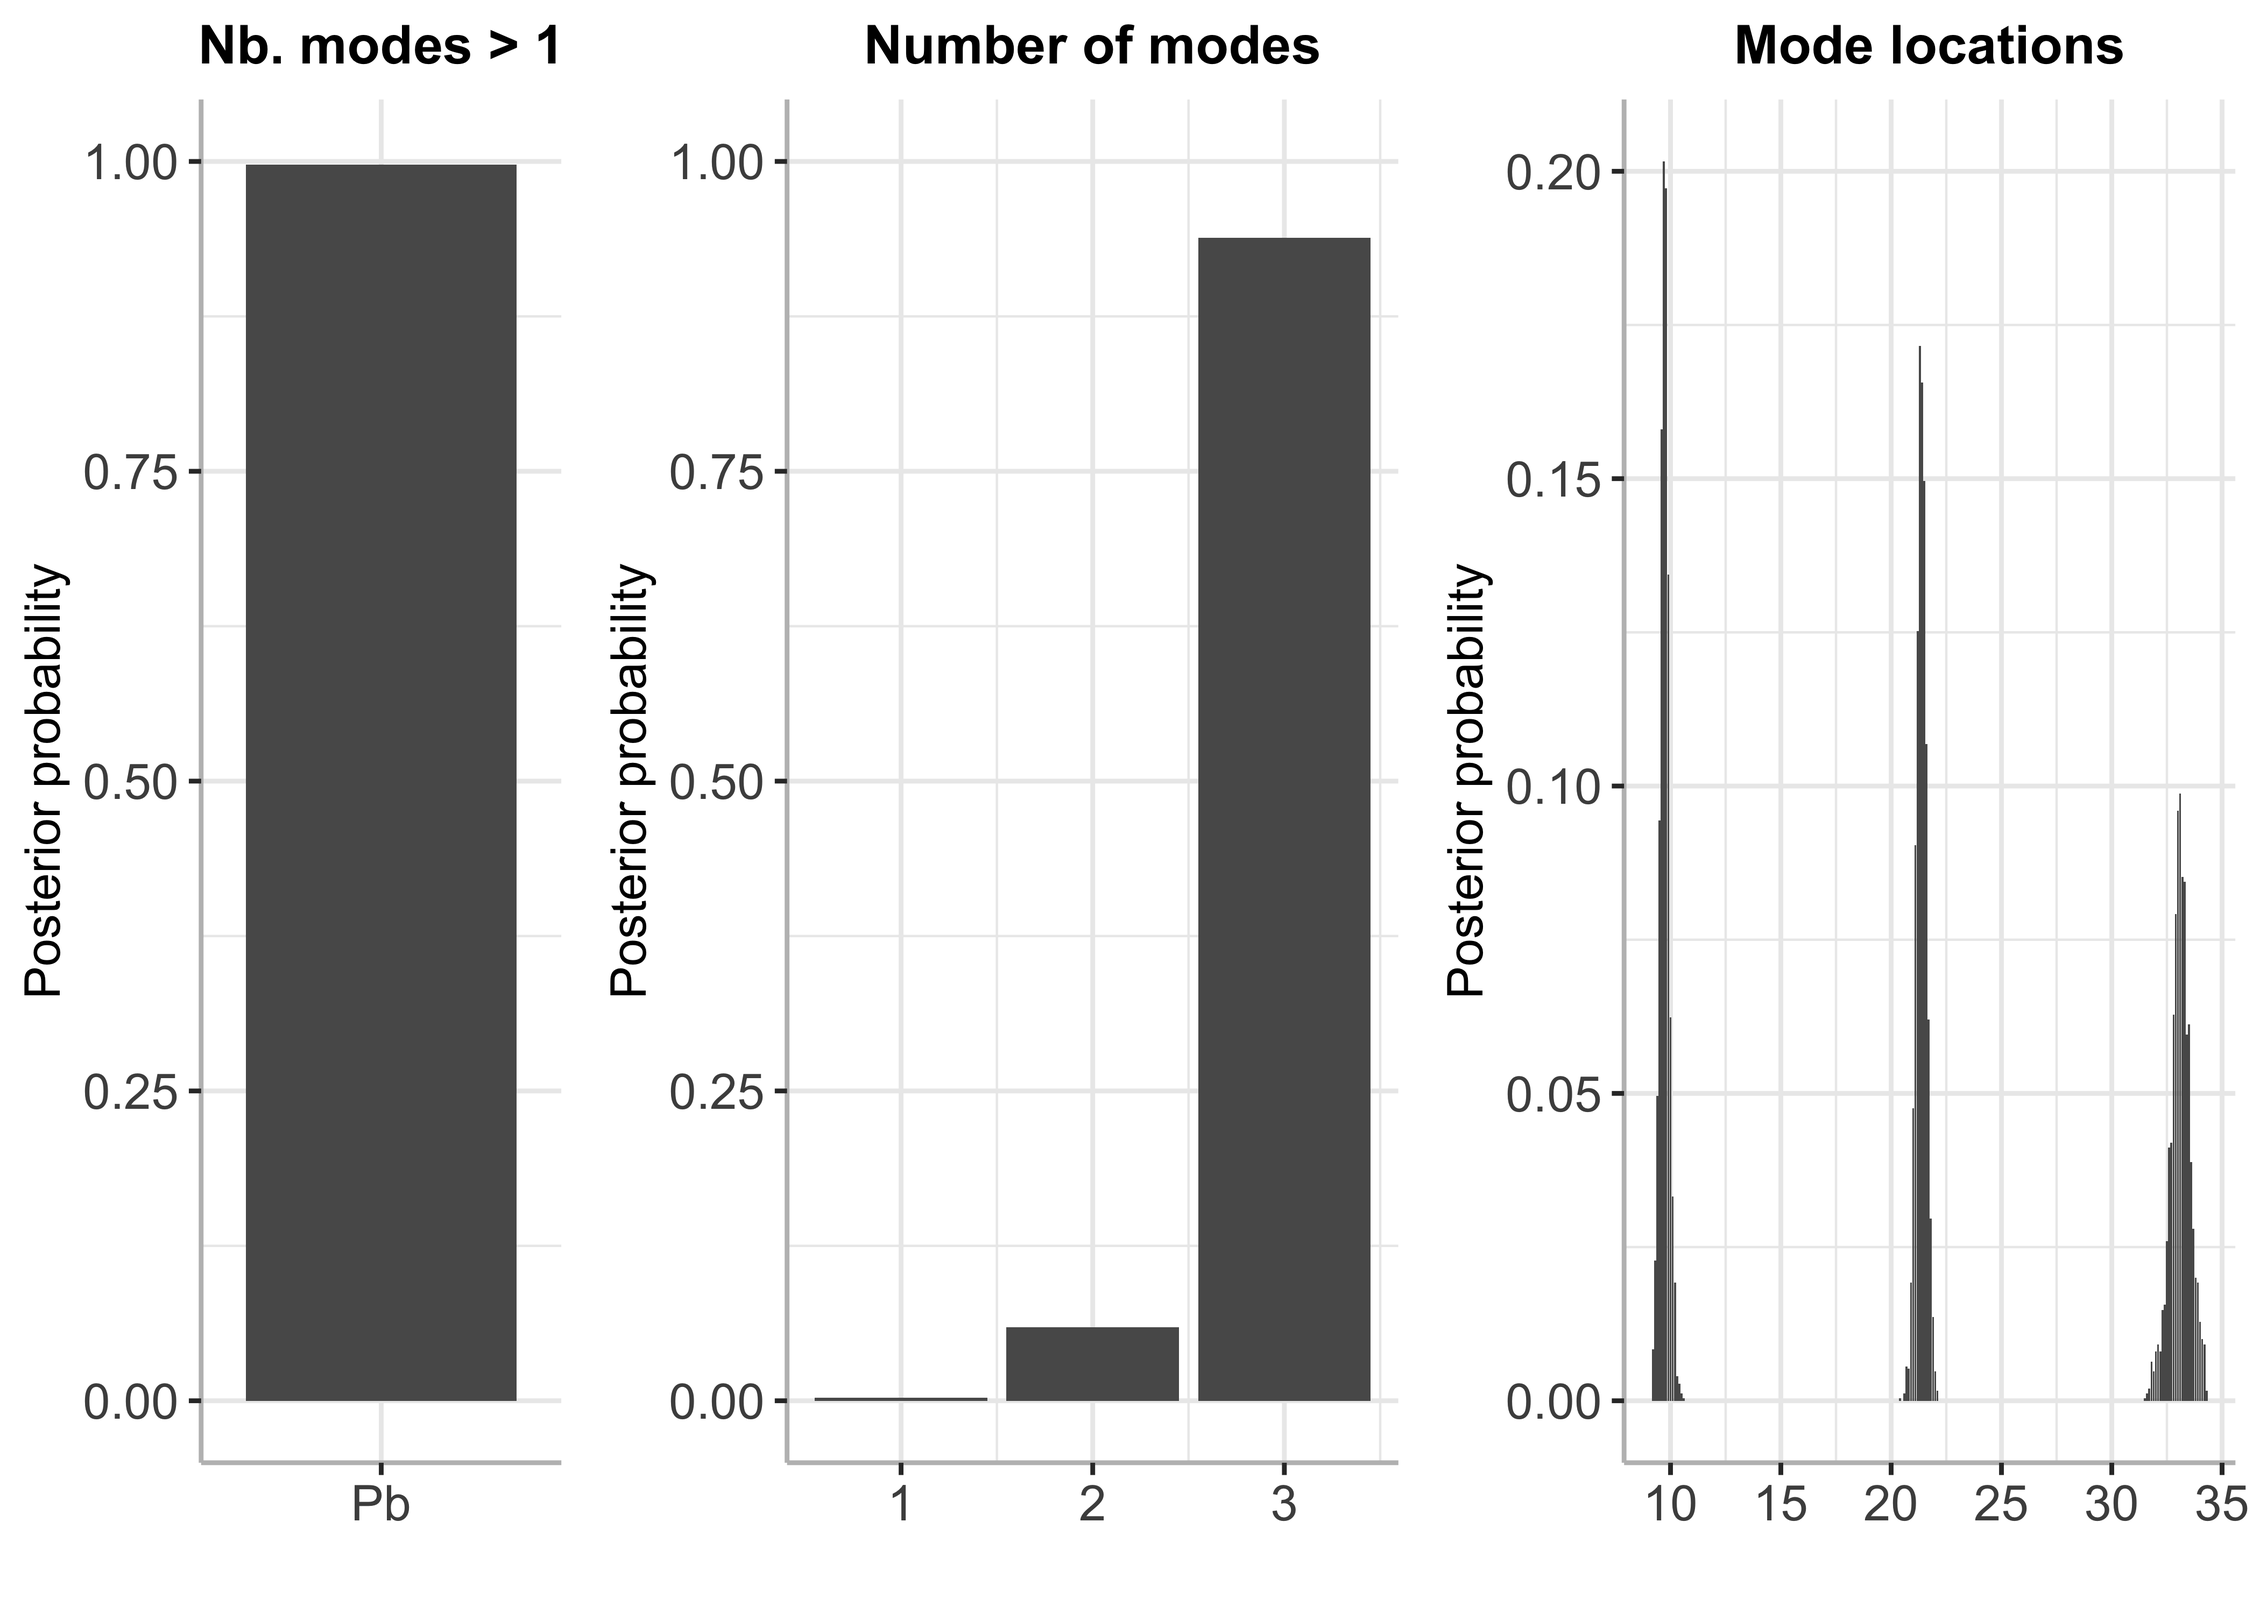
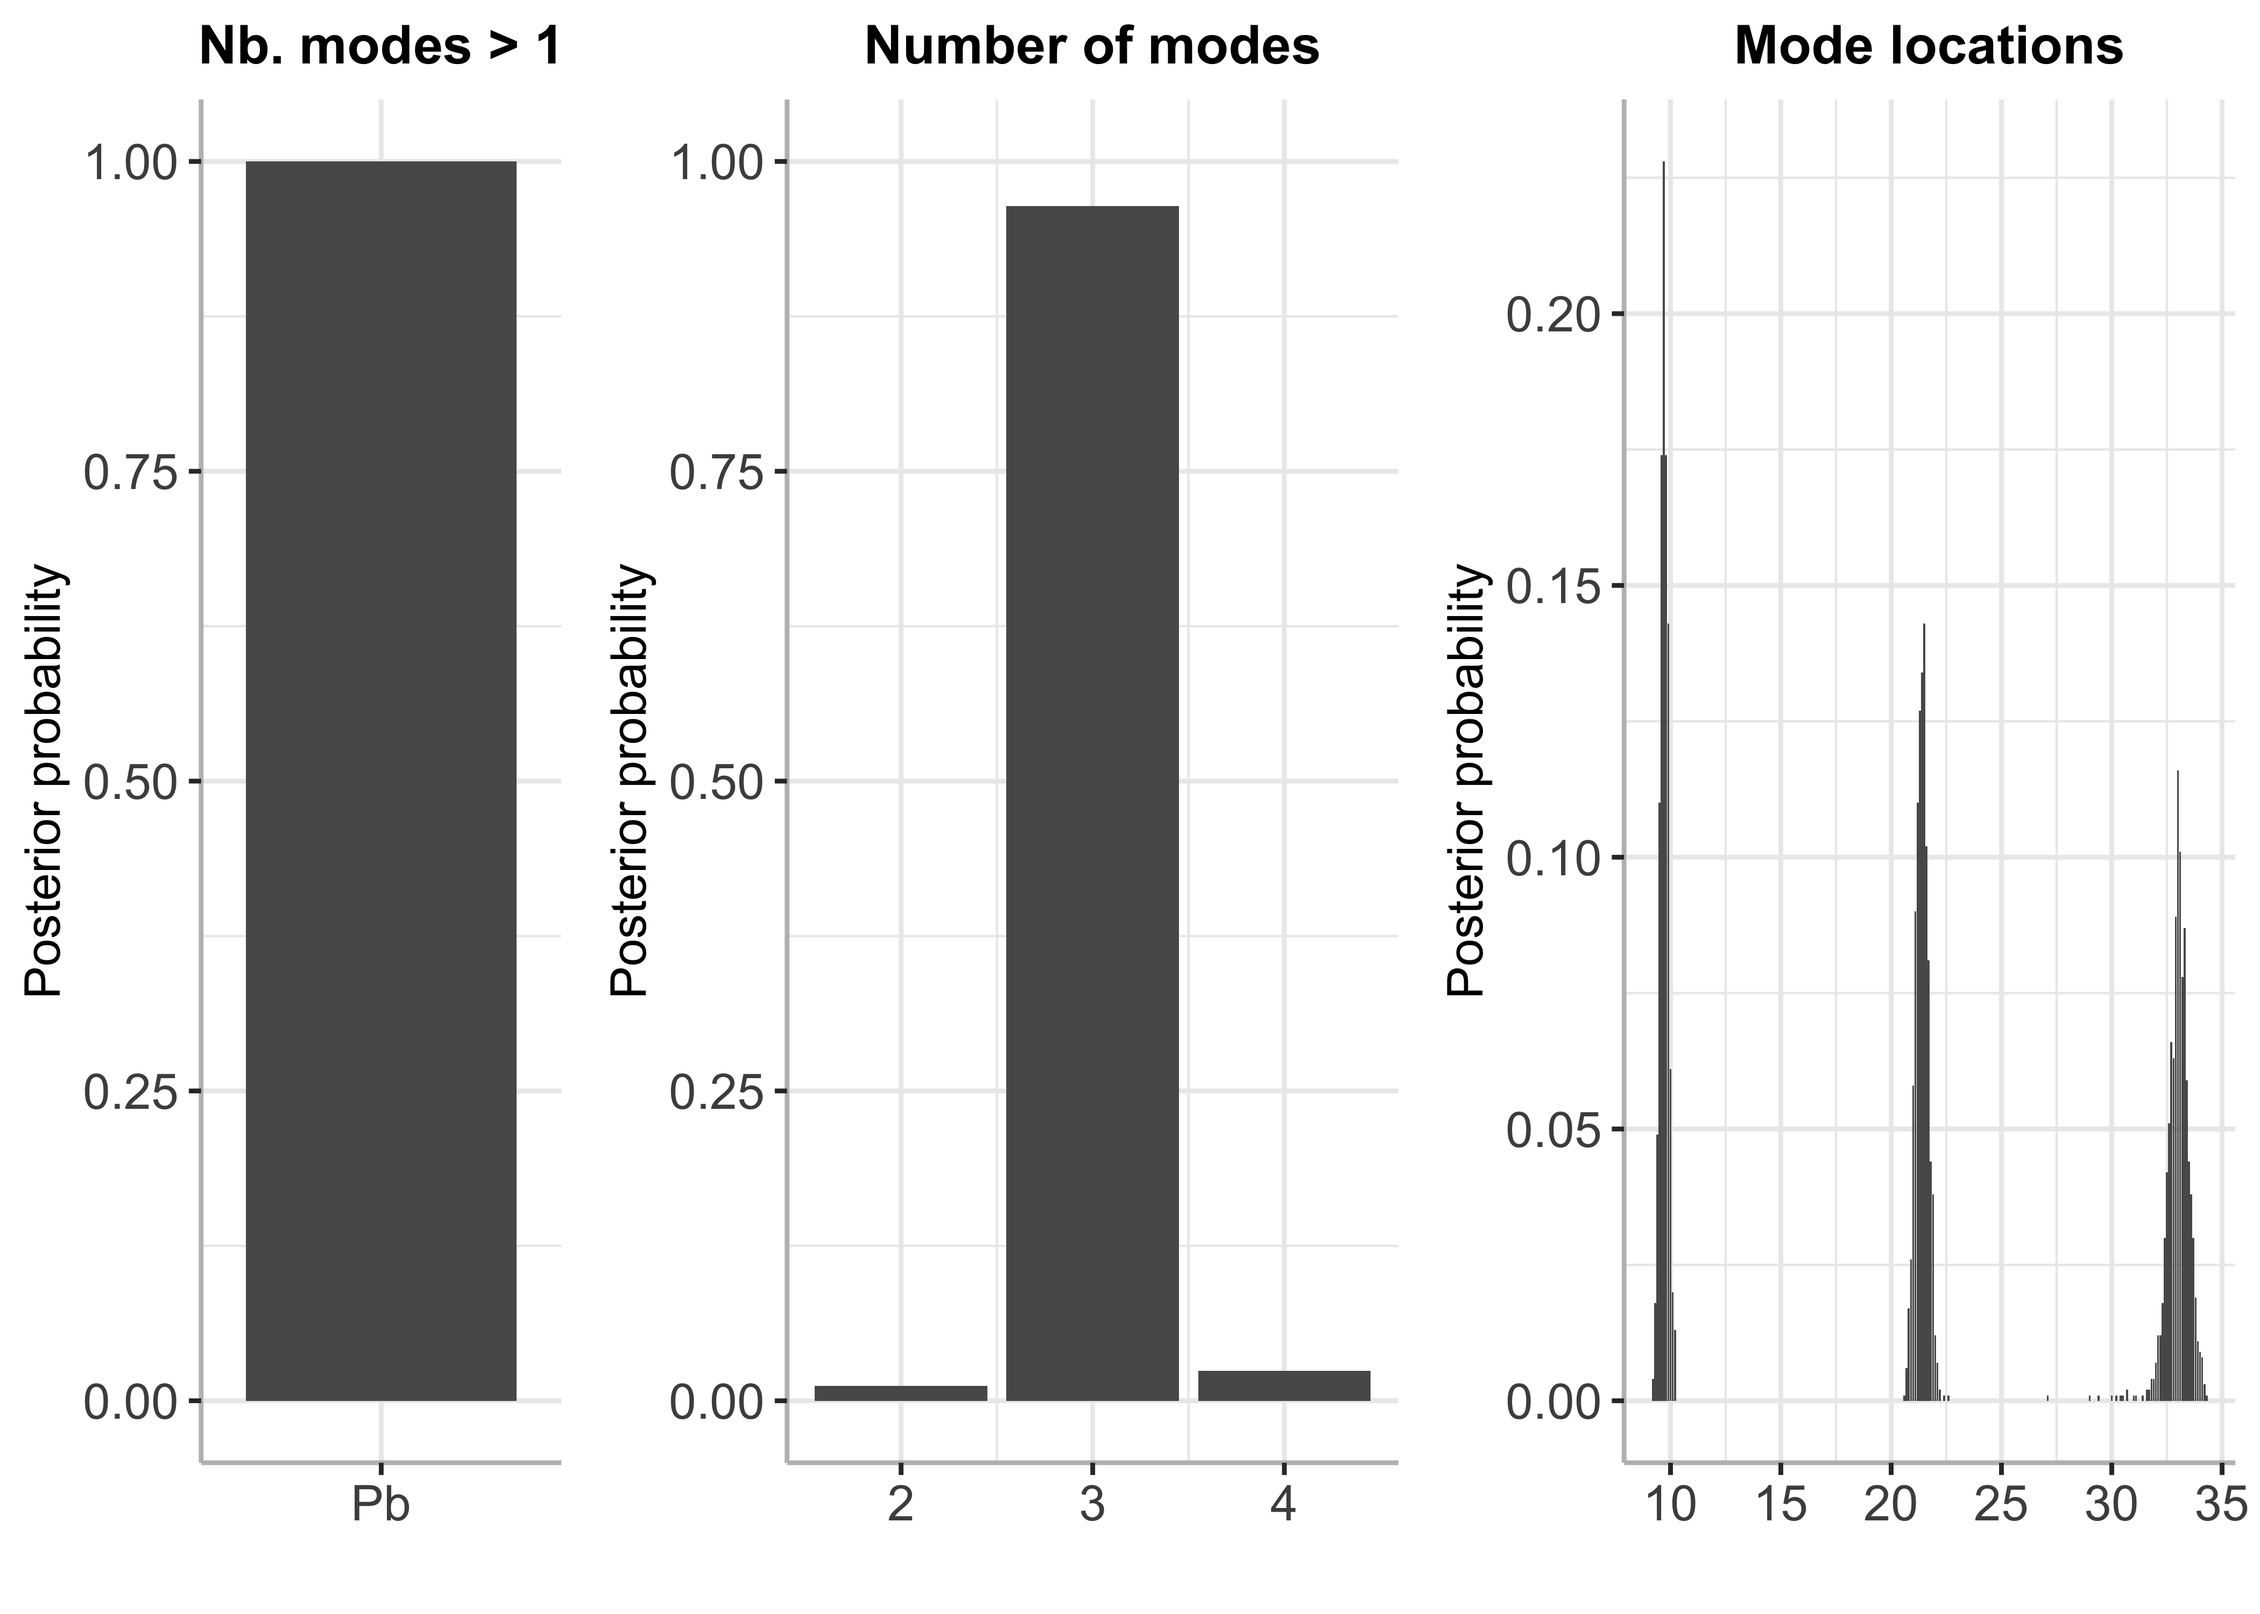
updated readme

diff --git a/README.md b/README.md
@@ -52,16 +52,16 @@ bayesmix = bayes_estimation(data = y,
                             burnin = 1000)
 ```
 
-    ## 10  % draws finished. Accept. prob of e0 = 12 percent
-    ## 20  % draws finished. Accept. prob of e0 = 10 percent
-    ## 30  % draws finished. Accept. prob of e0 = 12 percent
-    ## 40  % draws finished. Accept. prob of e0 = 12 percent
-    ## 50  % draws finished. Accept. prob of e0 = 10 percent
-    ## 60  % draws finished. Accept. prob of e0 = 10 percent
-    ## 70  % draws finished. Accept. prob of e0 = 10 percent
-    ## 80  % draws finished. Accept. prob of e0 = 10 percent
-    ## 90  % draws finished. Accept. prob of e0 = 10 percent
-    ## 100  % draws finished. Accept. prob of e0 = 10 percent
+    ## 10  % draws finished. Accept. prob of e0 = 14 percent
+    ## 20  % draws finished. Accept. prob of e0 = 15 percent
+    ## 30  % draws finished. Accept. prob of e0 = 14 percent
+    ## 40  % draws finished. Accept. prob of e0 = 13 percent
+    ## 50  % draws finished. Accept. prob of e0 = 13 percent
+    ## 60  % draws finished. Accept. prob of e0 = 13 percent
+    ## 70  % draws finished. Accept. prob of e0 = 13 percent
+    ## 80  % draws finished. Accept. prob of e0 = 12 percent
+    ## 90  % draws finished. Accept. prob of e0 = 12 percent
+    ## 100  % draws finished. Accept. prob of e0 = 12 percent
 
 ``` r
 # plot estimated mixture
@@ -98,44 +98,35 @@ y = galaxy
 bayesmix = bayes_estimation(data = y,
                             K = 4,
                             dist = "normal",
-                            nb_iter = 5000,
-                            burnin = 2500,
-                            chains = 1)
+                            nb_iter = 2000,
+                            burnin = 1000,
+                            chains = 1,
+                            G0 = 0)
 ```
 
     ## 
     ## SAMPLING FOR MODEL 'normal_mixture' NOW (CHAIN 1).
     ## Chain 1: 
-    ## Chain 1: Gradient evaluation took 4.2e-05 seconds
-    ## Chain 1: 1000 transitions using 10 leapfrog steps per transition would take 0.42 seconds.
+    ## Chain 1: Gradient evaluation took 5.4e-05 seconds
+    ## Chain 1: 1000 transitions using 10 leapfrog steps per transition would take 0.54 seconds.
     ## Chain 1: Adjust your expectations accordingly!
     ## Chain 1: 
     ## Chain 1: 
-    ## Chain 1: Iteration:    1 / 5000 [  0%]  (Warmup)
-    ## Chain 1: Iteration: 1000 / 5000 [ 20%]  (Warmup)
-    ## Chain 1: Iteration: 2000 / 5000 [ 40%]  (Warmup)
-    ## Chain 1: Iteration: 2501 / 5000 [ 50%]  (Sampling)
-    ## Chain 1: Iteration: 3500 / 5000 [ 70%]  (Sampling)
-    ## Chain 1: Iteration: 4500 / 5000 [ 90%]  (Sampling)
-    ## Chain 1: Iteration: 5000 / 5000 [100%]  (Sampling)
+    ## Chain 1: Iteration:    1 / 2000 [  0%]  (Warmup)
+    ## Chain 1: Iteration: 1000 / 2000 [ 50%]  (Warmup)
+    ## Chain 1: Iteration: 1001 / 2000 [ 50%]  (Sampling)
+    ## Chain 1: Iteration: 2000 / 2000 [100%]  (Sampling)
     ## Chain 1: 
-    ## Chain 1:  Elapsed Time: 61.141 seconds (Warm-up)
-    ## Chain 1:                62.284 seconds (Sampling)
-    ## Chain 1:                123.425 seconds (Total)
+    ## Chain 1:  Elapsed Time: 2.491 seconds (Warm-up)
+    ## Chain 1:                0.698 seconds (Sampling)
+    ## Chain 1:                3.189 seconds (Total)
     ## Chain 1:
 
-    ## Warning: There were 143 divergent transitions after warmup. See
+    ## Warning: There were 1 divergent transitions after warmup. See
     ## https://mc-stan.org/misc/warnings.html#divergent-transitions-after-warmup
     ## to find out why this is a problem and how to eliminate them.
 
-    ## Warning: There were 1993 transitions after warmup that exceeded the maximum treedepth. Increase max_treedepth above 10. See
-    ## https://mc-stan.org/misc/warnings.html#maximum-treedepth-exceeded
-
     ## Warning: Examine the pairs() plot to diagnose sampling problems
-
-    ## Warning: The largest R-hat is 1.09, indicating chains have not mixed.
-    ## Running the chains for more iterations may help. See
-    ## https://mc-stan.org/misc/warnings.html#r-hat
 
     ## Warning: Bulk Effective Samples Size (ESS) is too low, indicating posterior means and medians may be unreliable.
     ## Running the chains for more iterations may help. See
@@ -144,58 +135,6 @@ bayesmix = bayes_estimation(data = y,
     ## Warning: Tail Effective Samples Size (ESS) is too low, indicating posterior variances and tail quantiles may be unreliable.
     ## Running the chains for more iterations may help. See
     ## https://mc-stan.org/misc/warnings.html#tail-ess
-
-``` r
-bayesmix$fit
-```
-
-    ## Inference for Stan model: normal_mixture.
-    ## 1 chains, each with iter=5000; warmup=2500; thin=1; 
-    ## post-warmup draws per chain=2500, total post-warmup draws=2500.
-    ## 
-    ##             mean se_mean    sd    2.5%     25%     50%     75%   97.5% n_eff
-    ## theta[1]    0.00    0.00  0.01    0.00    0.00    0.00    0.00    0.02   237
-    ## theta[2]    0.08    0.00  0.03    0.03    0.06    0.08    0.10    0.14    67
-    ## theta[3]    0.88    0.00  0.04    0.80    0.85    0.88    0.90    0.94    57
-    ## theta[4]    0.04    0.00  0.02    0.00    0.02    0.04    0.05    0.09    32
-    ## mu[1]    -145.60   14.72 97.74 -340.78 -214.73 -139.70  -62.03    2.51    44
-    ## mu[2]       9.73    0.02  0.21    9.29    9.60    9.73    9.85   10.16   133
-    ## mu[3]      21.37    0.03  0.23   20.91   21.21   21.37   21.52   21.81    78
-    ## mu[4]      33.20    0.09  0.61   32.09   32.86   33.14   33.46   34.83    44
-    ## sigma[1]    0.00    0.00  0.03    0.00    0.00    0.00    0.00    0.00  2332
-    ## sigma[2]    0.54    0.03  0.15    0.33    0.42    0.51    0.62    0.88    28
-    ## sigma[3]    2.18    0.02  0.17    1.87    2.07    2.18    2.27    2.52    89
-    ## sigma[4]    1.00    0.15  0.70    0.49    0.71    0.83    1.01    3.44    23
-    ## alpha[1]    0.23    0.01  0.07    0.12    0.18    0.22    0.27    0.41    37
-    ## C0[1]       0.00    0.00  0.05    0.00    0.00    0.00    0.00    0.00  2497
-    ## C0[2]       0.65    0.07  0.49    0.11    0.31    0.52    0.84    2.06    47
-    ## C0[3]       3.03    0.22  1.82    0.61    1.62    2.66    4.06    7.62    70
-    ## C0[4]       1.48    0.16  1.04    0.30    0.72    1.17    1.97    4.14    45
-    ## lp__     -239.39    0.68  3.64 -248.50 -241.26 -238.82 -236.71 -234.18    29
-    ##          Rhat
-    ## theta[1] 1.02
-    ## theta[2] 1.05
-    ## theta[3] 1.02
-    ## theta[4] 1.00
-    ## mu[1]    1.00
-    ## mu[2]    1.02
-    ## mu[3]    1.02
-    ## mu[4]    1.03
-    ## sigma[1] 1.00
-    ## sigma[2] 1.01
-    ## sigma[3] 1.01
-    ## sigma[4] 1.07
-    ## alpha[1] 1.07
-    ## C0[1]    1.00
-    ## C0[2]    1.00
-    ## C0[3]    1.01
-    ## C0[4]    1.02
-    ## lp__     1.10
-    ## 
-    ## Samples were drawn using NUTS(diag_e) at Mon Jan 16 16:14:29 2023.
-    ## For each parameter, n_eff is a crude measure of effective sample size,
-    ## and Rhat is the potential scale reduction factor on split chains (at 
-    ## convergence, Rhat=1).
 
 ``` r
 # plot estimated mixture
@@ -223,7 +162,6 @@ plot(bayesmode, max_size = 200)
 <img src="README_files/figure-gfm/unnamed-chunk-7-1.png" width="70%" style="display: block; margin: auto;" />
 
 ### References
-
 
 <div id="refs" class="references csl-bib-body hanging-indent">
 
